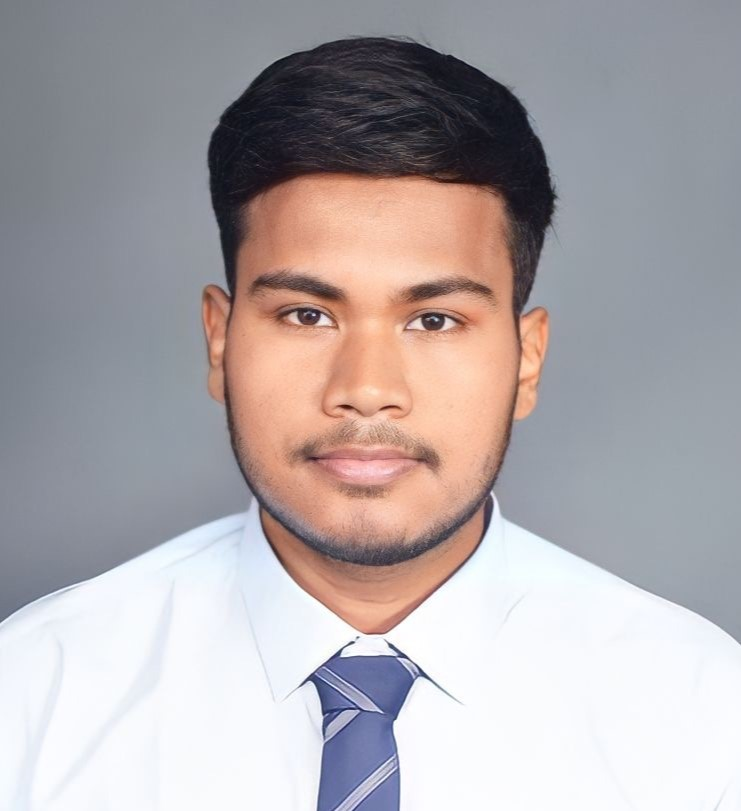
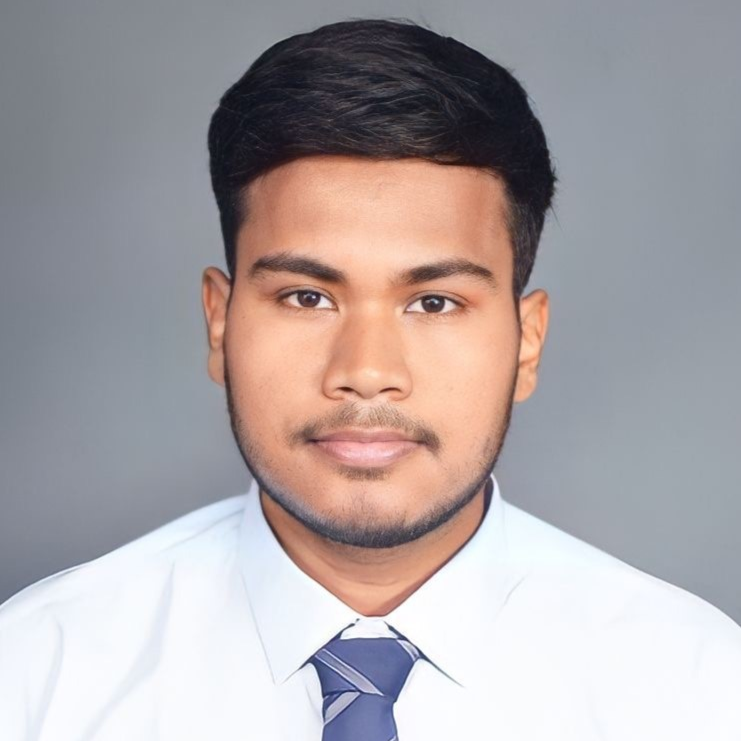
profile Shap change

diff --git a/components/HeroSection.tsx b/components/HeroSection.tsx
@@ -48,17 +48,18 @@ const HeroSection = () => {
           initial={{ opacity: 0, scale: 0.5 }}
           animate={{ opacity: 1, scale: 1 }}
           transition={{ duration: 0.5 }}
-          className="col-span-4 place-self-center mt-4 lg:mt-0"
+          className="col-span-4 place-self-center "
         >
           <div className="rounded-full w-[150px] h-[150px] lg:w-[200px] lg:h-[200px] relative">
+            
             <Image
               src="/SagarMaiti.png"
               alt="Sagar Maiti"
-              className="absolute transform -translate-x-1/2 -translate-y-1/2 top-1/2 left-1/2 rounded-full "
-              width={300}
-              height={300}
+              className="absolute transform -translate-x-1/2 -translate-y-1/2 top-1/2 left-1/2 rounded-full border-[0.1rem] dark:border-gray-900 border-[#a698ff] border-dashed shadow-xl "
+              width={350}
+              height={350}
             />
-            <motion.span
+            {/* <motion.span
             className="absolute bottom-0 right-0 text-6xl"
             initial={{ opacity: 0, scale: 0 }}
             animate={{ opacity: 1, scale: 1 }}
@@ -70,7 +71,7 @@ const HeroSection = () => {
             }}
           >
             👋
-          </motion.span>
+          </motion.span> */}
           </div>
         </motion.div>
       </div>
